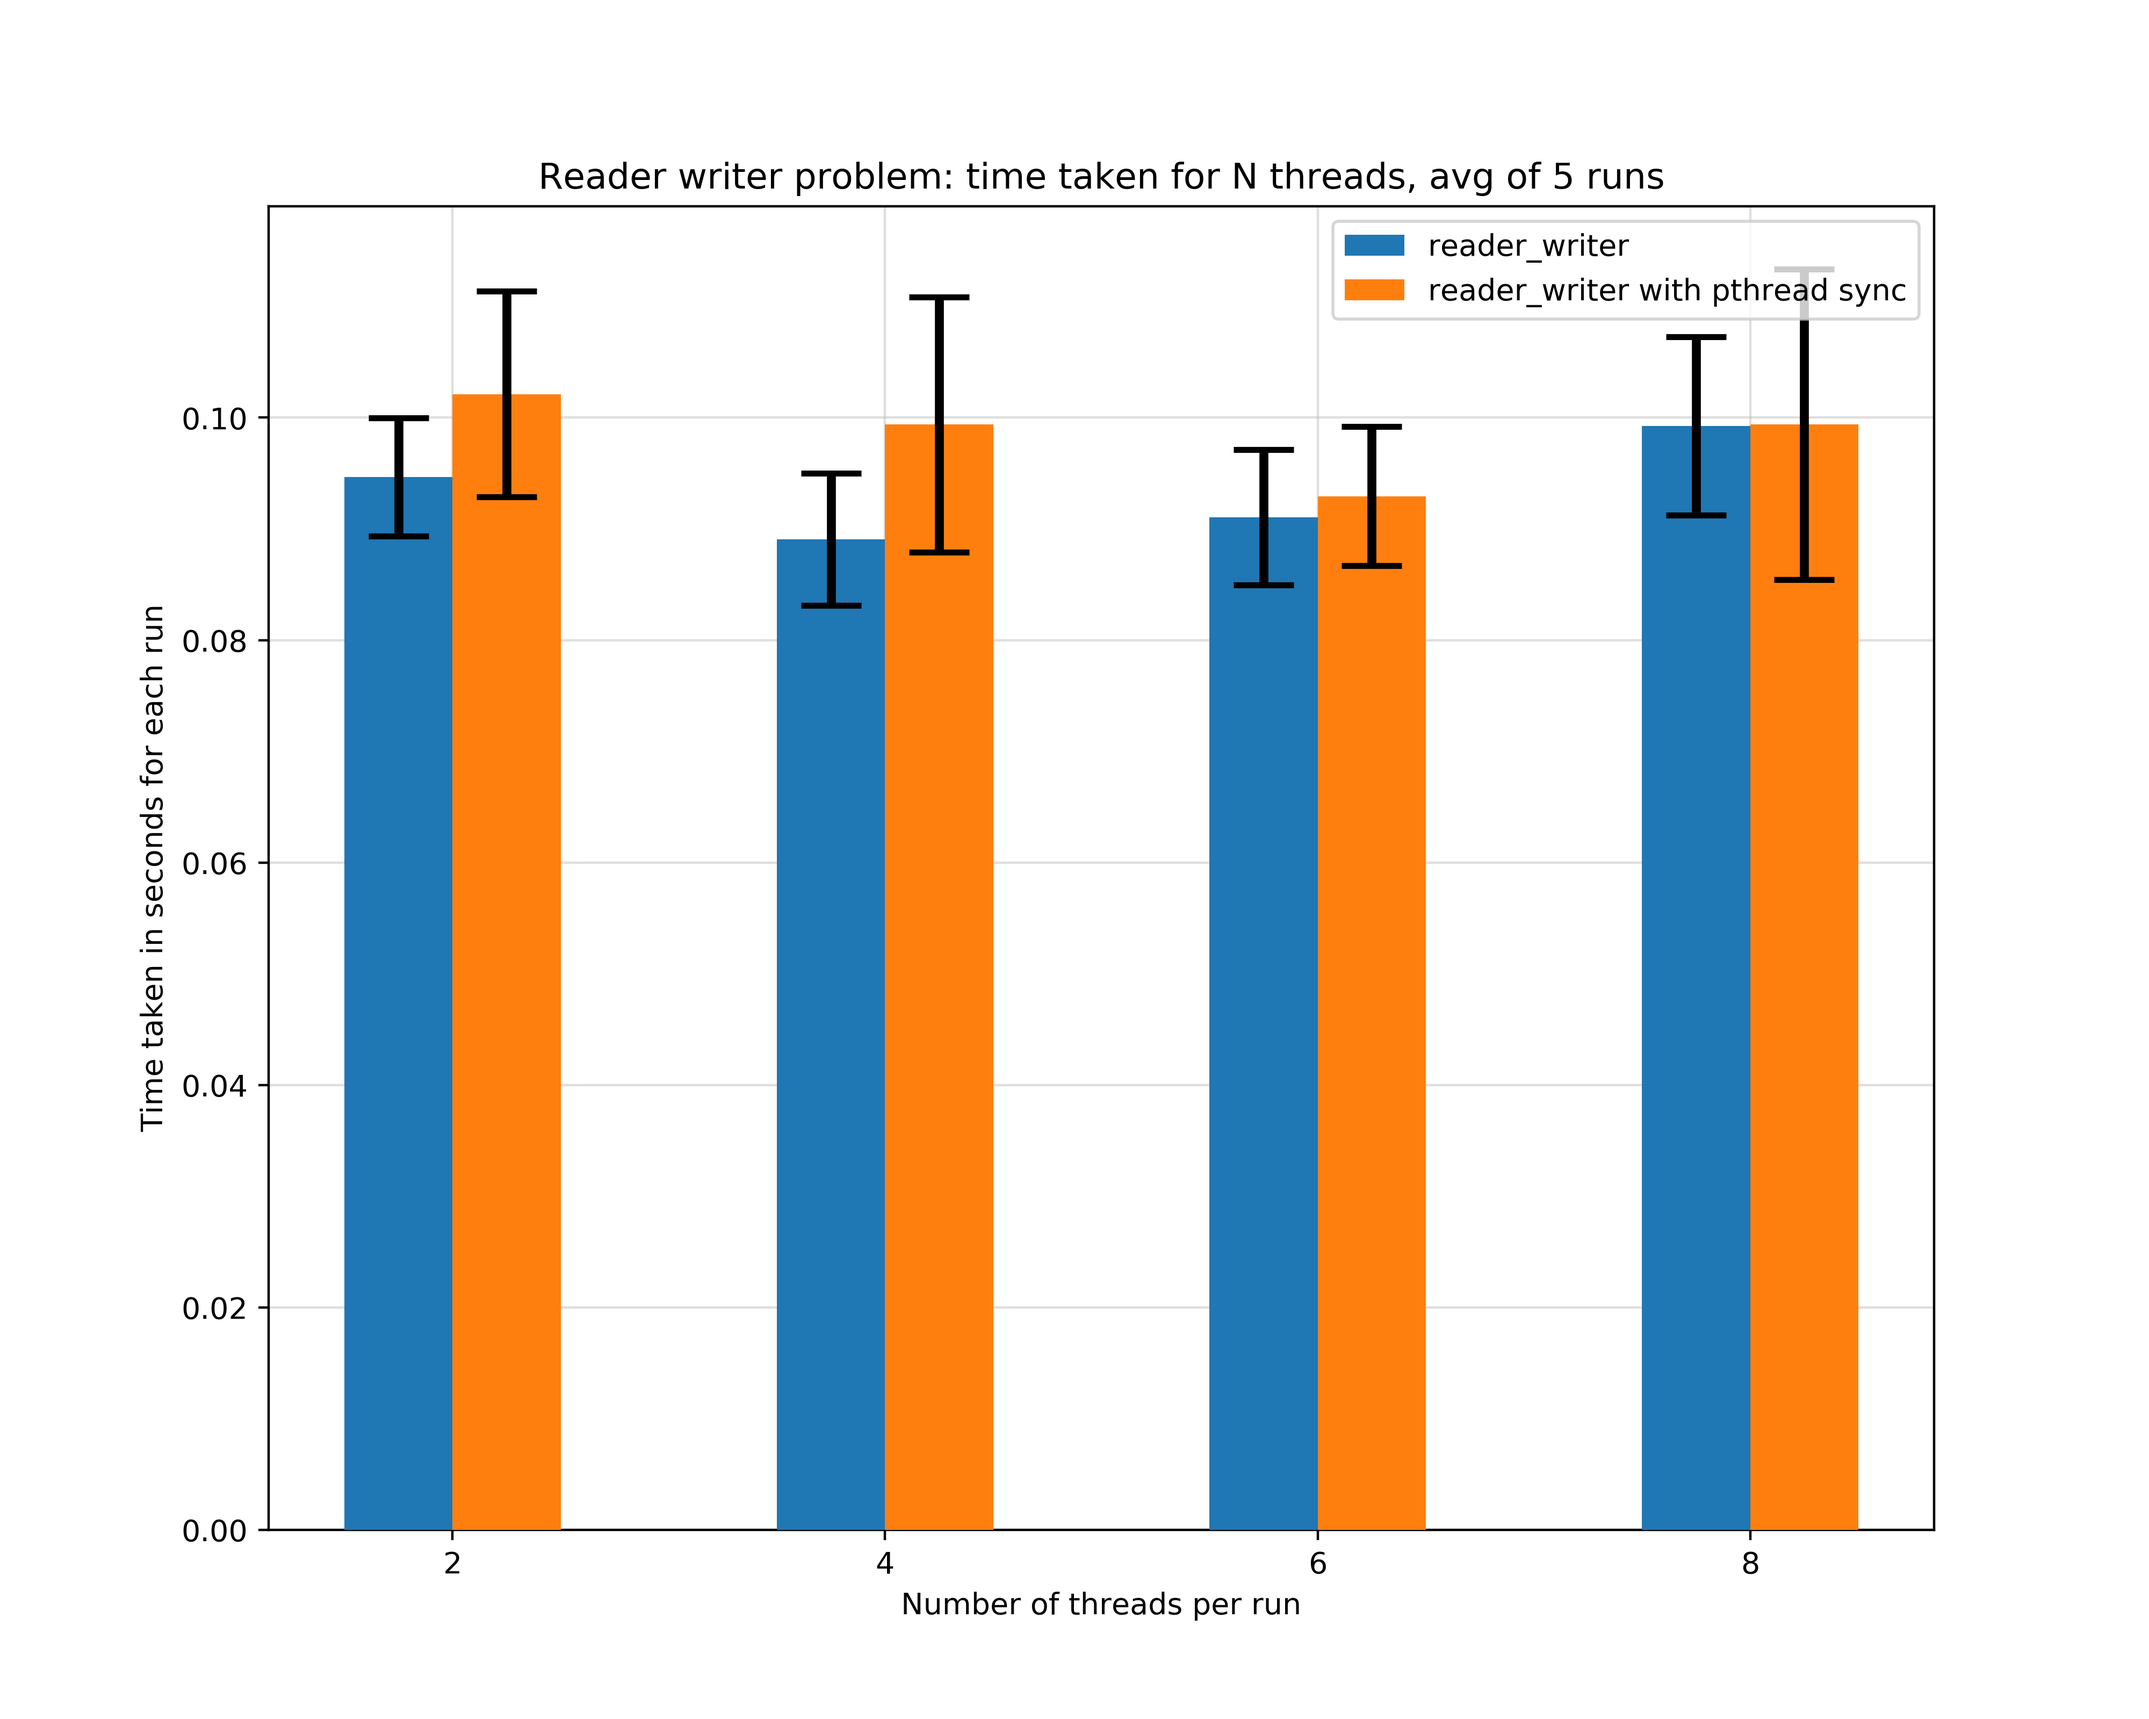
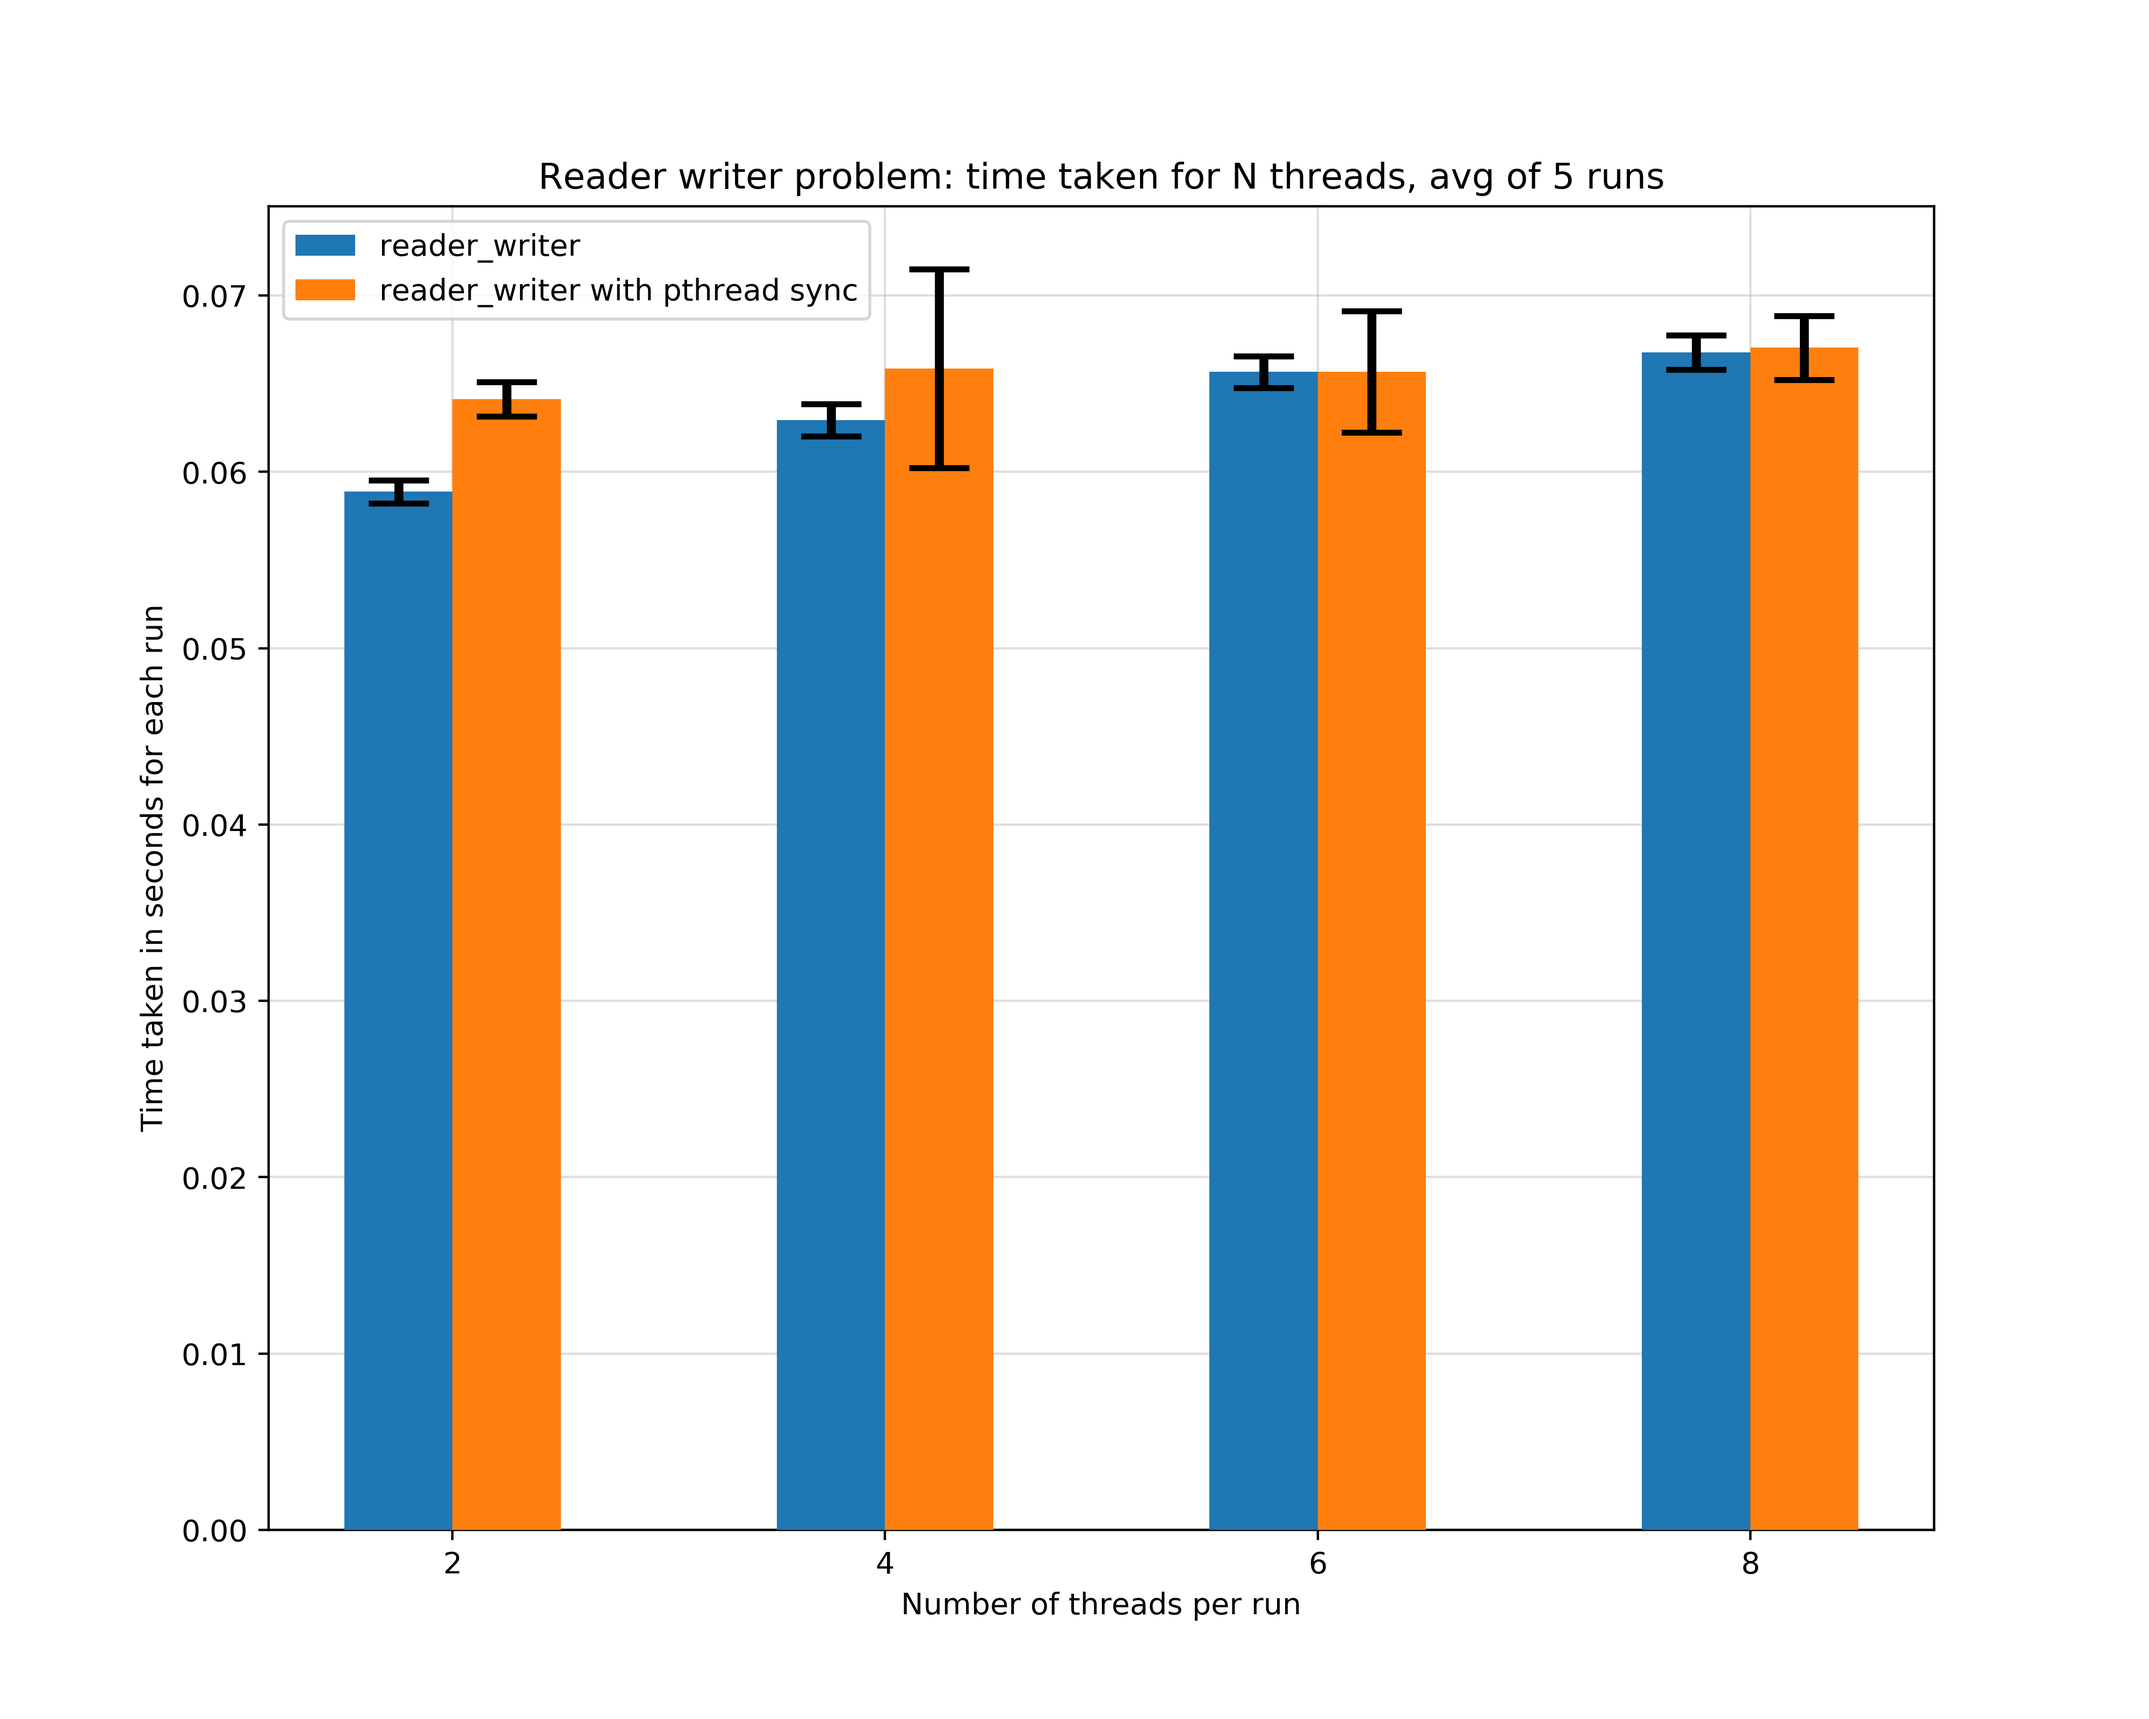
Fixed semaphores after TP

diff --git a/src/test_and_set_lock.c b/src/test_and_set_lock.c
@@ -5,6 +5,7 @@
 #include <stdlib.h>
 #include "../headers/producers_consumers.h"
 #include <alloca.h>
+#include <unistd.h>
 
 
 // test-and-set & test-and-test-and set lock implementation: ----------------------
@@ -29,43 +30,32 @@ void mutex_destroy(mutex_t *mutex) {
     free(mutex);
 }
 
-int test_and_set(mutex_t *mutex) {
-    int value = 1;
-    // the "lock" is just there to make sure that it will indeed be an atomic operation
+int test_and_set(mutex_t *mutex, int value) {
     asm volatile (
-            "lock; xchgl %0, %1"
-            : "+m"(*mutex->lock), "+a"(value)
+            "mov %[value], %%eax;"                           // move value to eax
+            "xchg %%eax, %[lock];"                           // xchg eax and lock, eax is going to be equal to lock and vice versa
+            "mov %%eax, %[value]"                            // move eax to value
+            : [lock] "+m"(*mutex->lock), [value] "+r"(value)
             :
-            : "memory"
+            : "eax"                                          // eax was clobbered
             );
-    // "a" means value goes into eax first, "m" means that lock is read from memory
     // the "+" denotes a read and write constraint, found in: https://gcc.gnu.org/onlinedocs/gcc/Modifiers.html#Modifiers
     return value;
 }
 
 void lock(mutex_t *mutex) {
-//    int val = 1;
-//    do {
-//        val = test_and_set(mutex);
-//    } while (val - (*mutex->lock) == 0); // loop while value isn't 1, meaning lock was 0, so another thread had the lock
-
     // spin until test_and_set returns 1, meaning we got the lock
-    while (test_and_set(mutex) != 0) {
-//        asm volatile ("nop");
-    }
-
+    while (test_and_set(mutex, 1) != 0) {}
 }
 
 void unlock(mutex_t *mutex) {
     int value = 0;
-    asm volatile ("lock; xchgl %0, %1" : "+a"(value), "+m"(*mutex->lock): : "memory"); // sets the lock variable back to 0
+    test_and_set(mutex, value);
 }
 
 void lock_test_and_test_and_set(mutex_t *mutex) {
-    while (test_and_set(mutex) != 0) {
-        while (*mutex->lock != 0) {
-            asm volatile ("nop");
-        }
+    while (test_and_set(mutex, 1) != 0) {
+        while (*mutex->lock != 0) {}
     }
 }
 

diff --git a/src/my_semaphore.c b/src/my_semaphore.c
@@ -28,33 +28,16 @@ void semaphore_wait(semaphore_t *semaphore) {
     lock_test_and_test_and_set(semaphore->mutex);
 
     // the calling thread is blocked while counter is 0
-    while (semaphore->counter < 1) {
-//        asm volatile ("nop");
-    }
+    while (semaphore->counter < 1) {}
 
     (semaphore->counter)--;
-//    uint res;
-//    asm volatile ("lock; xadd %0, %1"
-//            : "=r"(res), "+m"(semaphore->counter)
-//            : "0"(-1)
-//            : "memory"
-//            );
 
     unlock(semaphore->mutex);
 }
 
 // increments the semaphore value, unblocks any thread waiting for the counter to go up.
 void semaphore_post(semaphore_t *semaphore) {
-//    (semaphore->counter)++;
-
-    // we can also increment counter using xadd which is the atomic addition
-    uint res;
-    asm volatile ("lock; xadd %0, %1"
-            : "=r"(res), "+m"(semaphore->counter)
-            : "0"(1)
-            : "memory"
-            );
-//    return res;
+    (semaphore->counter)++;
 }
 
 

diff --git a/headers/test_and_set_lock.h b/headers/test_and_set_lock.h
@@ -14,7 +14,7 @@ mutex_t *mutex_init(void);
 
 void mutex_destroy(mutex_t *mutex);
 
-int test_and_set(mutex_t *mutex);
+int test_and_set(mutex_t *mutex, int value);
 
 void lock(mutex_t *mutex);
 
